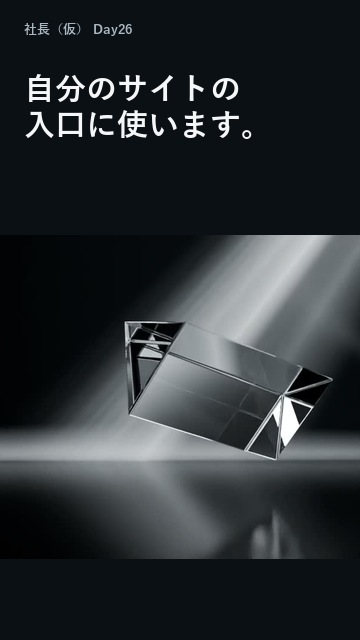
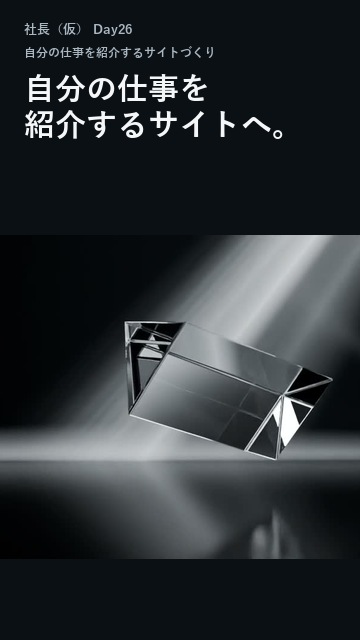
Day26構成案2: 前回予告とサイト制作の目的を明記

Changed region(s): [[0.0611, 0.0625, 0.6722, 0.2188], [0.6722, 0.1875, 0.7944, 0.2188]]

diff --git a/sns-review/analysis-20261019/index.html b/sns-review/analysis-20261019/index.html
@@ -20,11 +20,11 @@
 <section id="references"><h2>新しく集めた、制作過程の手本5本</h2><p>いずれも50万回超・75秒以下。自分で作品を作り、工程や時間を見せ、動いた結果を提示する形を選びました。0・0.5・1・1.5・2・3・5・8秒・最後を、Day25と並べて目視しています。</p><ul><li><a href="https://www.youtube.com/shorts/rdIrWCPkQr8">Animating a FIGHT SCENE in 30 DAYS</a>：7,995,852回・39秒</li><li><a href="https://www.youtube.com/shorts/atpDdQCUZc0">Learning ANIMATION in 1 WEEK</a>：6,979,122回・33秒</li><li><a href="https://www.youtube.com/shorts/idlZ51Z9FRk">1 Hour ANIMATION Challenge</a>：5,654,171回・38秒</li><li><a href="https://www.youtube.com/shorts/DjSAq_urZbY">3 levels of animation</a>：3,652,650回・18秒</li><li><a href="https://www.youtube.com/shorts/hwB74DBPkS4">I Worked Like A MAPPA Animator For 72 Hours</a>：2,612,294回・59秒</li></ul>
 <p>アニメ制作の挑戦3本は同じ作者です。5本を独立した成功例とは扱いません。手本の人物・キャラクター・映像は、新しい動画へ使いません。比較用のコマは手元だけに保存し、このページには元動画へのリンクを載せています。</p>
 <div class="scroll"><table><thead><tr><th>見る点</th><th>コマで確認したこと</th><th>次の回へ反映</th></tr></thead><tbody><tr><th>始まり</th><td>制作対象や描く行為が早く映る</td><td>0秒から自分のガラスを大きく</td></tr><tr><th>制約</th><td>3本は0.5秒付近からタイマー</td><td>16秒の動きと480枚の関係</td></tr><tr><th>過程</th><td>1枚→複数の絵→動いた結果へ進む</td><td>静止画→途中のコマ→動き</td></tr><tr><th>見せ場</th><td>制作した動きを映像で見せる</td><td>説明中も実物、後半に動きを見せる時間</td></tr></tbody></table></div><p class="meta">伸びた原因を証明する比較実験ではありません。視聴者層や題材の人気は異なるため、構成上の参考として使います。</p></section>
-<section id="day26"><h2>次の1本：16秒のために、480枚。</h2><p><strong>Day26の活動記録としての案です。本編は未制作・未承認。</strong>Day25の「次は自分の看板のサイト作り」という予告を受け、実際に進めている自社TOPのガラスの制作を使います。広告の説明や好みの二択は繰り返しません。</p>
+<section id="day26"><h2>次の1本：16秒のために、480枚。</h2><p><strong>冒頭は本人確認済み。続く説明を修正したDay26の構成案です。本編全体は未承認・未制作。</strong>Day25の「次は自分の看板のサイト作り」という予告を受け、実際に進めている自社TOPのガラスの制作を使います。広告の説明や好みの二択は繰り返しません。</p>
 <p>新しく伝わることは、「一枚の絵を少しずつ変えて480枚作ると、16秒の動きになる」です。Day18〜22の動きの好み・部屋・旧版比較とは、見せる作業と最後に分かることを変えます。</p>
 <p class="note">事実確認：下見MP4は16.000秒・30fps・480フレーム。自社素材のPC本番用もf0000〜f0479の480枚が実在しました。PC本番のMP4完成、Web実装、スマホ版完成、反応の改善は断定しません。5時間という初期の見込みは、実測の完了時間として使いません。</p>
-<p>約29秒を目安に、合成音声・BGMなし。0秒から実物を動かし、見出しは短く、声の意味を省略せずにつなぎます。回転の素材は動きの下見を使用。コマ数の表示は実際の制作データを基にし、別の回転映像を完成品として作りません。</p>
-<div class="cuts"><article class="cut"><p class="time">0–3秒</p><img src="shot-1.jpg" alt="16秒のために、480枚。" width="360" height="640" loading="lazy"><p>0秒からガラスが回る。説明の前に実物。</p><p class="voice">声：この16秒を動かすために、画像を480枚作りました。</p></article><article class="cut"><p class="time">3–8秒</p><img src="shot-2.jpg" alt="自分のサイトの入口に使います。" width="360" height="640" loading="lazy"><p>自社サイト用だと、この回だけで分かる。</p><p class="voice">声：自分のサイトの入口に使う、ガラスの映像です。</p></article><article class="cut"><p class="time">8–14秒</p><img src="shot-3.jpg" alt="少しずつ、向きを変える。" width="360" height="640" loading="lazy"><p>静止画→間を飛ばした回転→滑らかな回転。</p><p class="voice">声：一枚ずつ、ガラスの向きを少し変えています。</p></article><article class="cut"><p class="time">14–21秒</p><img src="shot-4.jpg" alt="480枚を、つなぐと。" width="360" height="640" loading="lazy"><p>途中のコマを見せたあと、動きを大きく見せる。</p><p class="voice">声：480枚をつなぐと、こう動きます。〔続けて動きを見せる〕</p></article><article class="cut"><p class="time">21–29秒</p><img src="shot-5.jpg" alt="PC用は480枚。次はスマホ用。" width="360" height="640" loading="lazy"><p>今日できた範囲と、次に見せる物で締める。</p><p class="voice">声：動きの下見に続いて、パソコン用の480枚も揃いました。次はスマホで、ガラスを大きく見せられるか試します。</p></article></div><p><a href="storyboard.jpg">1枚の絵コンテを拡大する</a></p><h3>使う実物（動きの下見・16秒）</h3><video controls playsinline preload="metadata" poster="prism.jpg" src="prism-preview.mp4"></video><p class="meta">この映像は既存の自社素材です。新しいDay26の完成動画ではありません。</p>
+<p>約36秒を目安に、合成音声・BGMなし。0秒から実物を動かし、見出しは短く、声の意味を省略せずにつなぎます。回転の素材は動きの下見を使用。コマ数の表示は実際の制作データを基にし、別の回転映像を完成品として作りません。</p>
+<h3>Day25の予告を確認しました</h3><p>公開版の最後は「次のDayは、看板のサイト作り。」。制作音声の文は、53.763〜57.030秒に<strong>「次のDayは、自分の看板のサイト作りに戻ります。」</strong>です。投稿文でも同じ予告を確認しました。<a href="https://www.youtube.com/watch?v=d_10DHcHXTw&amp;t=53">Day25の終盤を見る</a></p><p>今回の本人の返事：「まぁ始まりはよし。ただこれだけだと何の話してるん？になるのと、前回の動画の終わりで、次の動画は〜って言ってたはずだから、確認しておいて」</p><p><strong>今回の話は、自分の仕事を紹介するサイトの最初の画面を作っている記録です。</strong>冒頭の「16秒のために、480枚」は維持します。0秒から小さく「自分の仕事を紹介するサイトづくり」と添え、冒頭のすぐ後に「何のサイトか→どこにガラスを使うか」を説明してから、480枚の作り方に進みます。</p><div class="cuts"><article class="cut"><p class="time">0–3秒</p><img src="shot-1.jpg" alt="16秒のために、480枚。" width="360" height="640" loading="lazy"><p>0秒からガラスが回る。説明の前に実物。</p><p class="voice">声：この16秒を動かすために、画像を480枚作りました。</p></article><article class="cut"><p class="time">3–12秒</p><img src="shot-2.jpg" alt="自分の仕事を紹介するサイトへ。" width="360" height="640" loading="lazy"><p>Day25の予告を受けてサイト作りに戻る。何のサイトか、この回だけで説明する。</p><p class="voice">声：今日は、自分の仕事を紹介するサイト作りに戻りました。ホームページやチラシの仕事を知ってもらうためのサイトです。</p></article><article class="cut"><p class="time">12–19秒</p><img src="shot-3.jpg" alt="このガラスが、最初の画面に。" width="360" height="640" loading="lazy"><p>ガラスの用途とサイトの中の場所を、コマ数の説明より先に伝える。</p><p class="voice">声：その最初の画面に、このガラスがゆっくり動く映像を入れます。</p></article><article class="cut"><p class="time">19–27秒</p><img src="shot-4.jpg" alt="480枚を、つなぐと。" width="360" height="640" loading="lazy"><p>静止画と途中のコマから、実際の動きへ。</p><p class="voice">声：向きを少しずつ変えた画像を480枚つなぐと、こう動きます。〔続けて動きを見せる〕</p></article><article class="cut"><p class="time">27–36秒</p><img src="shot-5.jpg" alt="PC用は480枚。次はスマホ用。" width="360" height="640" loading="lazy"><p>サイト制作の今日の進み具合と、次の具体的な作業で締める。</p><p class="voice">声：パソコン用の画像は揃いました。次はスマホでも、ガラスを大きく見せられるか試します。</p></article></div><p><a href="storyboard.jpg">1枚の絵コンテを拡大する</a></p><h3>使う実物（動きの下見・16秒）</h3><video controls playsinline preload="metadata" poster="prism.jpg" src="prism-preview.mp4"></video><p class="meta">この映像は既存の自社素材です。新しいDay26の完成動画ではありません。</p>
 <h3>構成確認後に行うこと</h3><p>この流れでよければ、声の実尺に合わせて本編を作り、同秒の手本比較をもう一度行います。冒頭の主役・説明と絵の一致・見せ場の実映像・最後に分かることを確認し、スマホで再生と保存ができるリンクで渡します。</p>
 <h3>投稿後の確認方法</h3><p>公開48時間後に、過去回と同じ経過時間の再生数、フィード表示、見続けた割合、平均再生率、3秒以降と見せ場直前の維持率を確認します。25％は既存の制作ルールにある見直しの目安であり、YouTube公式の合格点でも、再生増加の保証でもありません。</p></section>
 <footer><h2>確認範囲</h2><p class="meta">公開メタデータ取得スクリプト、YouTube実数JSON、stay-rate.csv（10/14記録）、投稿履歴索引、Day23〜25の最終納品版・voice-timing、手本の同秒シート、あわいの引き継ぎメモと関連する本人の発言を確認。Day8/9の投稿本文は引き続き未確認。数字と内容の関係は、観察と推測を分けて記載しました。</p></footer></main></body></html>
